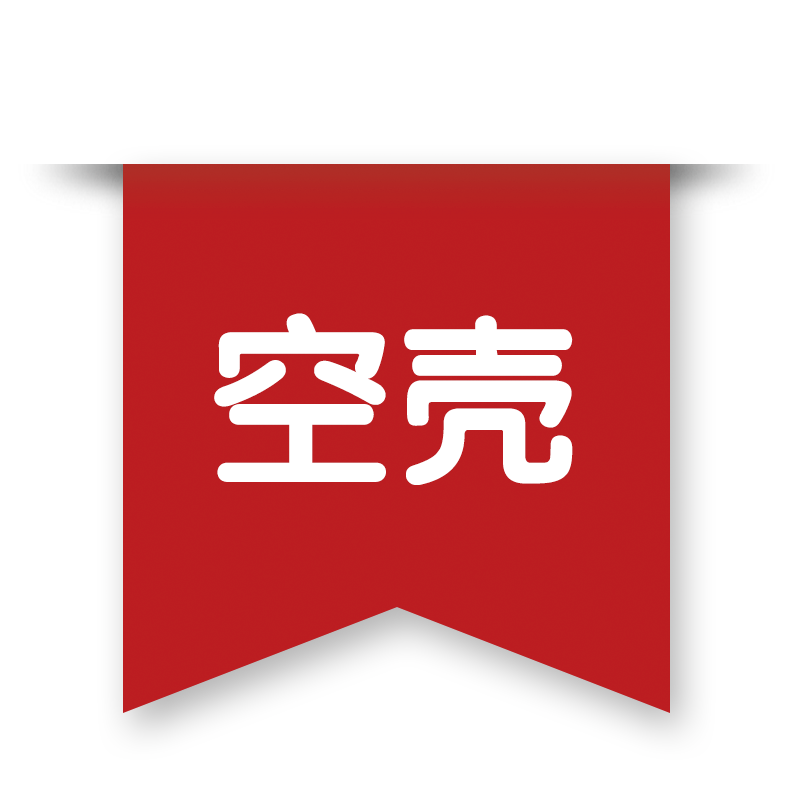
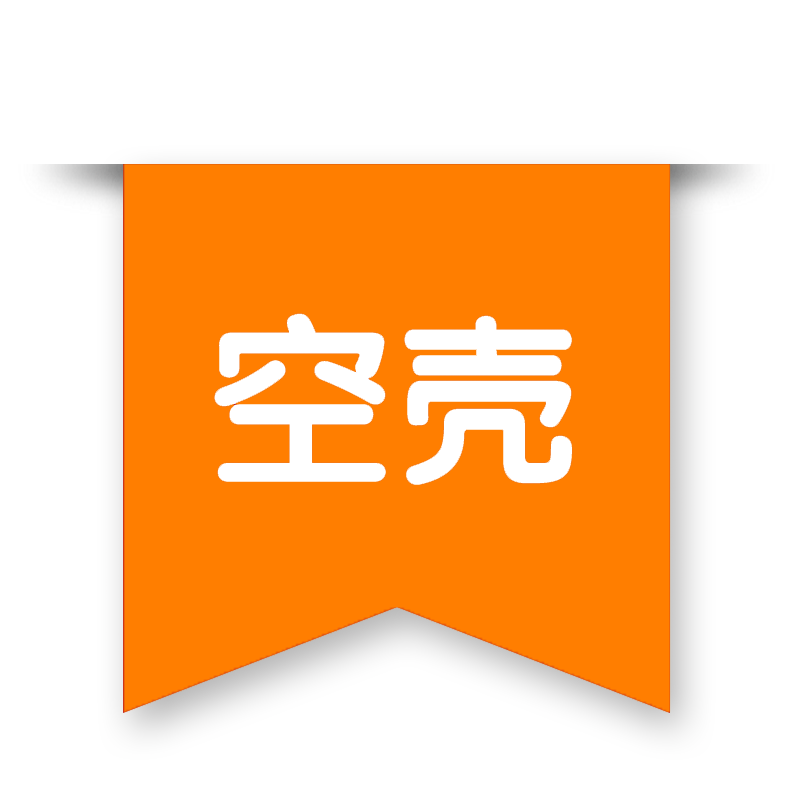
bug修复

diff --git a/src/components/content/transferMain.vue b/src/components/content/transferMain.vue
@@ -744,6 +744,7 @@ export default {
                                 overflow: hidden;
                                 display: flex;
                                 flex-wrap: wrap;
+								transition: all 0.2 ease;
                                 div{
 									max-height: 31px;
                                     margin-right: 4px;
@@ -757,9 +758,10 @@ export default {
                                 }
                                 .show{
                                     border: 1px solid #F3A54D;
-                                    color:#F3A54D;
+                                    color:white;
+									background-color: #F3A54D;
                                     &:hover{
-                                        color:#F3A54D
+                                        color:white;
                                     }
                                 }
                             }
@@ -872,12 +874,12 @@ export default {
                     margin-top:10px;
                     display: flex;
                     flex-wrap: wrap;
-					justify-content: space-between;
-					align-items: space-between;
+					justify-content: flex-start;
+					align-items: flex-start;
                     .bfath{
 						border-radius: 5px;
                         position: relative;
-                        margin:0 16px 16px 0;
+                        margin:0 8px 16px 8px;
                         width:384px;
                         height:384px;
                         background-color: #fff;
@@ -921,9 +923,9 @@ export default {
                         .bftwo{
                             display: flex;
                             justify-content: space-between;
-                            padding: 0 50px;
+                            padding: 0 55px;
                             padding-bottom: 20px;
-                            border-bottom: 1px solid #ccc;
+                            border-bottom: 1px solid #eeeeee;
                             .bftt{
                                 color:#ff7800;
                                 width:70px;

diff --git a/src/components/content/SbMain.vue b/src/components/content/SbMain.vue
@@ -5,7 +5,7 @@
 			<div class="one">
 				<i class="iconfont icon-liebiao"></i>
 				<p> 当前位置 ：</p>
-				<p>易转网首页 ></p>
+				<p>快转网首页 ></p>
 				<p>商标转让</p>
 			</div>
 			<div class="two">
@@ -69,17 +69,17 @@
 				    <img src="../../assets/images/empty.png" alt="">
 				    <div class="weione">
 				        <div>
-				            <p class="pone">没有找到心仪的公司?</p>
+				            <p class="pone">没有找到心仪的商标?</p>
 				            <p class="ptwo">联系客服帮忙找</p>
 				            <span>或</span>
-				            <p class="pthree">发布求购公司需求</p>
+				            <p class="pthree">发布求购商标需求</p>
 				        </div>
 				        <p class="pfour">不要急哦，好多热门资源没有展示出来，马上联系服务顾问获取</p>
 				    </div>
 				</div>
 			</div>
 			<div class="interested">
-			    <h2>您可能感兴趣的代办服务</h2>
+			    <h2>您可能感兴趣的商标</h2>
 			    <p>为您精选</p>
 			    <div class="inlist">
 			        <router-link 
@@ -189,11 +189,7 @@
 						url: "http://tmpic.tmkoo.com/ad4bc2b35ab2ed72967541ee3bb13223",
 						title: "3类-柒小柒",
 						price: "2000.00"
-					}, {
-						url: "http://tmpic.tmkoo.com/ad4bc2b35ab2ed72967541ee3bb13223",
-						title: "3类-柒小柒",
-						price: "2000.00"
-					},
+					}
 				], //结果列表
 				interested: [{
 						url: "http://tmpic.tmkoo.com/ad4bc2b35ab2ed72967541ee3bb13223",
@@ -471,6 +467,8 @@
 					justify-content: space-between;
 					display: flex;
 					flex-wrap: wrap;
+					justify-content: flex-start;
+					align-items: flex-start;
 					margin-top: 10px;
 
 					.bfath {
@@ -478,7 +476,7 @@
 						height: 300px;
 						border-radius: 5px;
 						background-color: #fff;
-						margin-bottom: 10px;
+						margin:0 5px 10px 5px;
 						overflow: hidden;
 						border: 1px solid #fff;
 						transition: 0.3s;

diff --git a/src/components/content/Header.vue b/src/components/content/Header.vue
@@ -9,7 +9,7 @@
                         <p>Hi~，{{username}} </p>
                         <router-link v-if="!$store.state.islogin" to="/Login" exact>【用户登录】</router-link>
                         <router-link v-if="!$store.state.islogin" to="/Egistered" exact>【用户注册】</router-link>
-                        <router-link v-if="!$store.state.islogin" to="/" exact>【经纪人认证】</router-link>
+                        <!-- <router-link v-if="!$store.state.islogin" to="/" exact>【经纪人认证】</router-link> -->
                         <p v-if="$store.state.islogin" @click="out()">【退出登录】</p>
                     </div>
                     <div class="headerTopRight">

diff --git a/src/components/router/Personalcompany.vue b/src/components/router/Personalcompany.vue
@@ -91,7 +91,7 @@
          <!-- 协议 承诺 start -->
         <div class="agreement">
             <div>
-                <el-checkbox v-model="checked">我已阅读并接受《易转网服务协议》</el-checkbox>
+                <el-checkbox v-model="checked">我已阅读并接受《快转网服务协议》</el-checkbox>
             </div>
         </div>
         <!-- 协议 承诺 end -->
